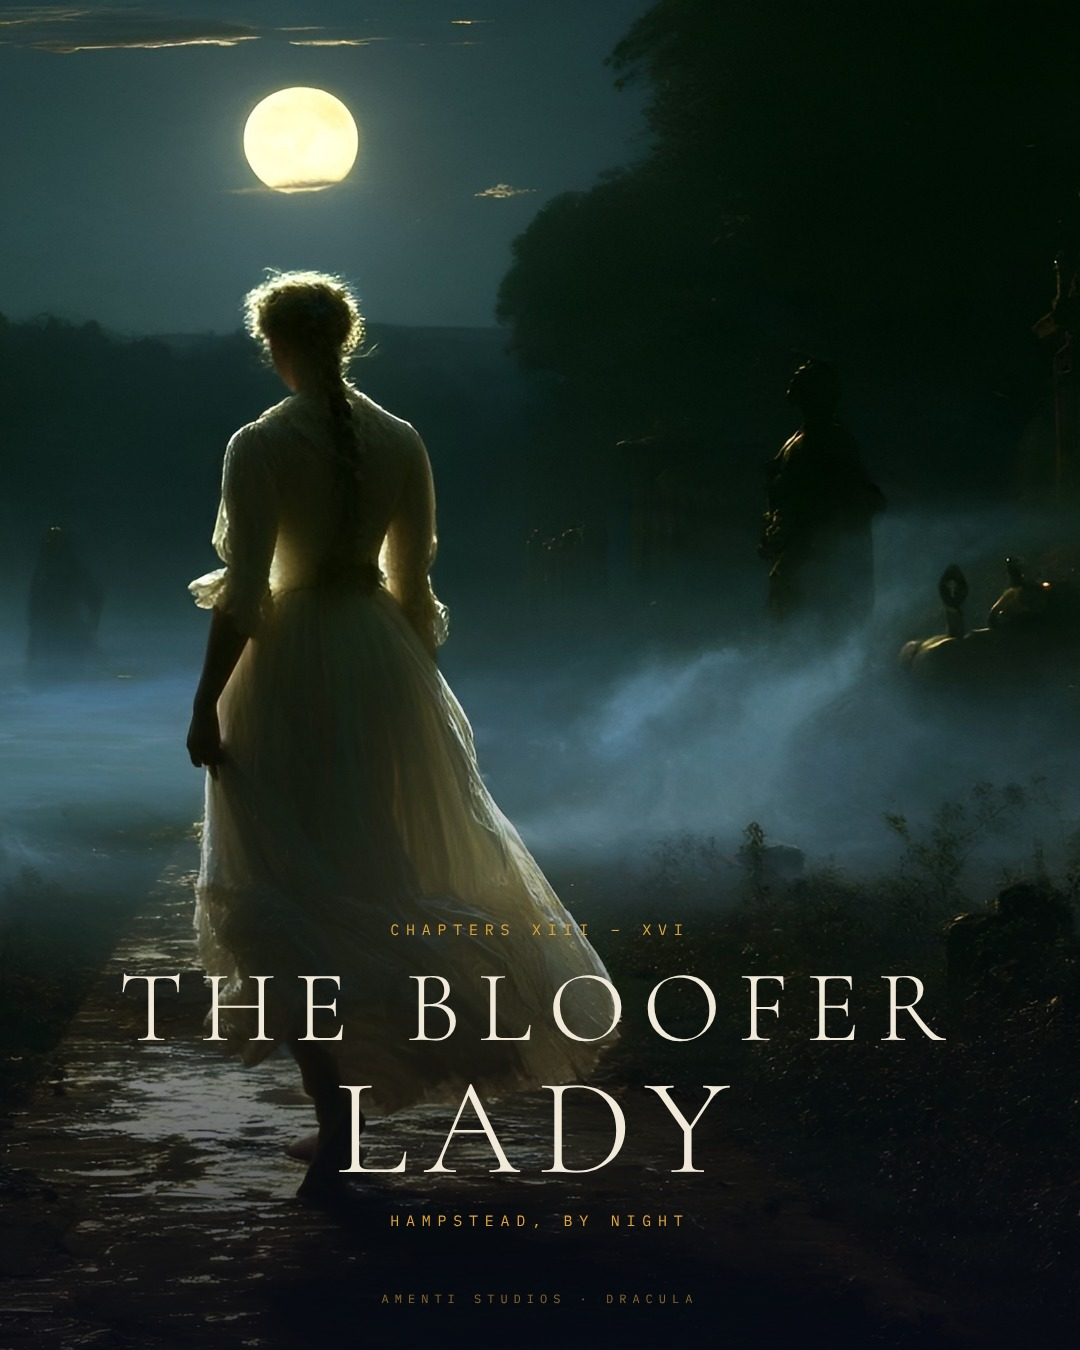
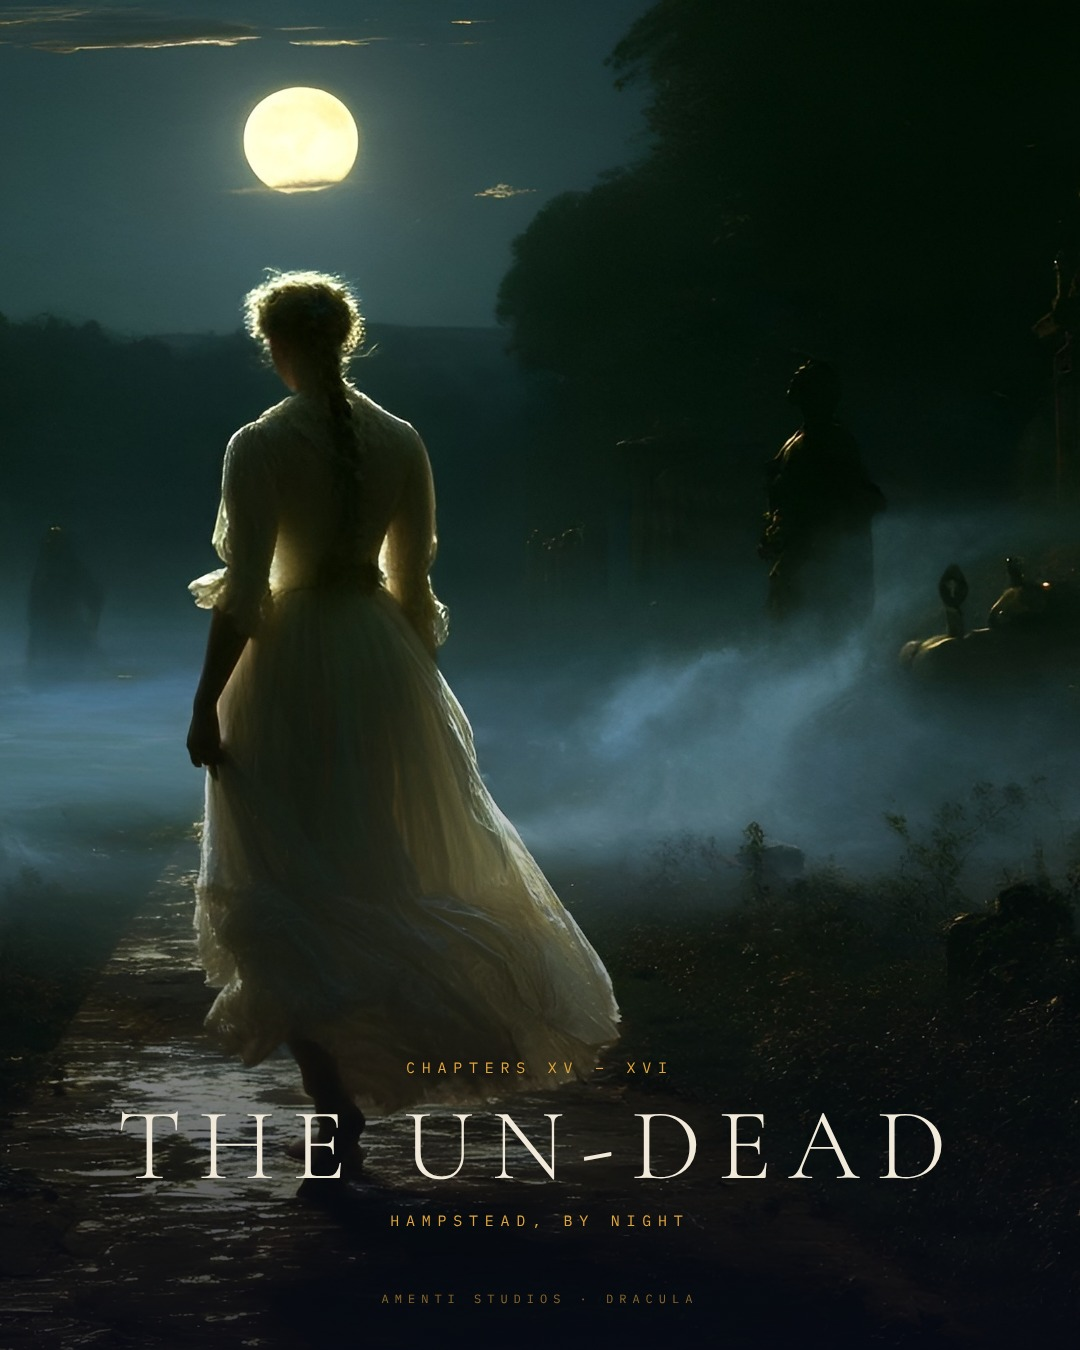
Instagram post 10 retitled The Un-Dead
Claude-Session: https://claude.ai/code/session_013VwDP7mPLrP4eYudhxc4u4

diff --git a/marketing/instagram/launch/page.py b/marketing/instagram/launch/page.py
@@ -10,7 +10,7 @@ P=[
 ("07","Mina on the steps","ch. VIII","One in the morning. Lucy’s bed is empty. Mina runs out into the town and up the East Cliff steps towards the churchyard.\n\nDracula, chapter VIII.","#Dracula #BramStoker #Whitby #MinaHarker #AmentiStudios"),
 ("08","The Czarina Catherine","ch. XXIV","Hunted out of London, the Count takes ship for the Black Sea and home, and the hunters follow.\n\nDracula, chapter XXIV.","#Dracula #BramStoker #MaritimeArt #AmentiStudios"),
 ("09","Lucy","ch. XVI","Hampstead churchyard. The woman they buried a week ago is walking among the tombs.\n\n“Come to me, Arthur. Leave these others and come to me. My arms are hungry for you.”\n— Lucy Westenra, Dracula, chapter XVI","#Dracula #BramStoker #LucyWestenra #GothicArt #AmentiStudios"),
-("10","The bloofer lady","ch. XIII–XVI","The children of Hampstead come home late and tell of a beautiful lady in white who walks with them at night. The newspapers call her the bloofer lady.\n\nDracula, chapters XIII–XVI.","#Dracula #BramStoker #LucyWestenra #AmentiStudios"),
+("10","The Un-Dead","ch. XV–XVI","The children of Hampstead come home late and tell of a beautiful lady in white who walks with them at night. Van Helsing knows what she is, and Arthur must see it for himself. Lucy Westenra is Un-Dead.\n\nDracula, chapters XV–XVI.","#Dracula #BramStoker #LucyWestenra #AmentiStudios"),
 ("11","Dracula · Volume One","Coming soon","The Borgo Pass, where the road east runs out and the Count’s calèche is waiting.\n\nDracula · Volume One. Books I and II of Bram Stoker’s novel, chapters I–XVI, illustrated throughout, in hardcover. Every chapter links to its scored reading.\n\nComing soon from Amenti Studios.","#Dracula #BramStoker #IllustratedBooks #AmentiStudios"),
 ("12","Piccadilly","ch. XIII","London, broad daylight. Mina feels Jonathan’s arm grip hers. He is staring at a tall, thin man by a carriage.\n\n“I believe it is the Count, but he has grown young.”\n— Jonathan Harker, Dracula, chapter XIII","#Dracula #BramStoker #VictorianLondon #AmentiStudios"),
 ]
